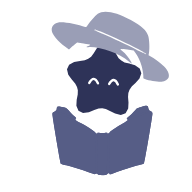
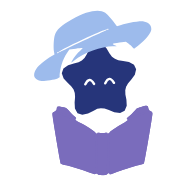
Test version: assistant colours light-blue hat, purple book, dark-blue head
Claude-Session: https://claude.ai/code/session_01SnNWWGU4BvZ2AAGobJocPY

diff --git a/beta/index.html b/beta/index.html
@@ -3715,9 +3715,10 @@ function aiHebrewDate(d){const h=hd(d);return `${h.d} ${h.n[0]} ${h.y}`}
    adm:1 = admin-only → counts as small in the version but is never announced.
    The shown version (bottom of ⋯, popups) is worked out from these sizes by ccVerStr(). A batch shows the biggest kind it contains.
    Whole new feature -> may also set `tour:'<id>'` (an id in SETS inside ccTourStart) so "Show me" runs a live tour. */
-const CC_VER=219;
+const CC_VER=220;
 const CC_LOG=[
-  {v:180,new:['The stats rings now use the new wavy style too.']},{v:181,new:['Clearer stats screen: rings and buttons easy to see in the evening, round day dots.']},{v:182,new:['Easier to read around sunset, clearer selected buttons, neater month boxes.']},{v:183,new:['Matching shapes: reminder cards, ticked shiurim and the streak days.']},{v:184,new:['Material 3 shapes for the calendar markers, the streak days and the stats.']},{v:185,new:['Each shiur has its own shape in the stats.']},{v:186,mid:1,new:['Month view: tap a day to see what’s on it right under the week; tap it again to open the day.']},{v:187,new:['Smoother and lighter on the battery: faster day changes, quieter when idle.']},{v:188,mid:1,new:['New motion everywhere: springy, physical animations — windows grow from where you tap and their content flows in.']},{v:189,mid:1,new:['Real Material 3 motion: windows grow out of the button you tap and shrink back into it, swipes between days and months follow your finger and keep its speed, selected buttons slide to their new place.']},{v:190,new:['Faster, smoother animations.']},{v:191,new:['No more blue flash when you tap something.']},{v:192,mid:1,new:['Shapes change into other shapes: ticking a box turns its square into a scalloped cookie, the selected day becomes a new shape, switches and buttons morph when you press them.']},{v:193,new:['Fixed: tapping a shiur box ticks it again.']},{v:194,mid:1,new:['The siddur has a little compass arrow at the top that points toward Yerushalayim. Tap it to see the direction.']},{v:195,new:['The siddur arrow is now a soft triangle that points the way to daven (map direction or shortest path — tap it to choose).']},{v:196,new:['The siddur direction arrow has its new shape.']},{v:197,new:['The drop arrow and its flying bubbles are gone; the cards now simply slide up as you scroll.']},{v:198,new:['Windows open and close a little slower, so the motion is easier to enjoy.']},{v:199,new:['The month view no longer looks stretched: shorter day boxes, and windows keep their shape while they open.']},{v:200,mid:1,new:['In the siddur, swipe sideways to move between Shacharis, Mincha, Maariv, Bentching and Shema; swipe in from the left edge to close it.']},{v:201,new:['Month view: the shapes behind today and the selected day are no longer stretched sideways.']},{v:202,big:1,new:['Material 3 everywhere, fixed and finished: every window grows from its button and shrinks back into it (also the full-screen ones), text stays crisp while windows move, sliding highlights in the siddur tabs, the week strip follows your finger, predictive back, moving wavy rings, a new loader, pressed buttons make room for each other, and Material 3’s Roboto Flex font.']},{v:203,new:['Cleaner look: one font for all English, solid sheets, crisper scrolling, clearer selected day, tidier settings and shiurim, calmer dusk.']},{v:204,new:['Fixes from a full check: stats now count today properly, the phone’s Back button closes the How & when guide, clearer choices at night, and small tidy-ups in the siddur and assistant.']},{v:205,new:['The stats page is much lighter and smoother (it could freeze or close the app).']},{v:206,new:['Today’s streak shape now spins into a new shape and fills up a quarter for every shiur you check off.']},{v:207,new:['Today’s streak shape now really spins (a full turn) as it changes shape.']},{v:208,new:['The assistant button is now a silhouette in the app’s colour, with a shape-shifting head that spins as you scroll.']},{v:209,new:['The assistant button has small eyes again, sized for his new head.']},{v:210,new:['The assistant has the new look everywhere he appears — every window and the notifications.']},{v:211,new:['His head stays still while he’s asleep.']},{v:219,new:['The assistant now has three shades: a light hat, his book in the app colour, and the darkest head.']},
+  {v:180,new:['The stats rings now use the new wavy style too.']},{v:181,new:['Clearer stats screen: rings and buttons easy to see in the evening, round day dots.']},{v:182,new:['Easier to read around sunset, clearer selected buttons, neater month boxes.']},{v:183,new:['Matching shapes: reminder cards, ticked shiurim and the streak days.']},{v:184,new:['Material 3 shapes for the calendar markers, the streak days and the stats.']},{v:185,new:['Each shiur has its own shape in the stats.']},{v:186,mid:1,new:['Month view: tap a day to see what’s on it right under the week; tap it again to open the day.']},{v:187,new:['Smoother and lighter on the battery: faster day changes, quieter when idle.']},{v:188,mid:1,new:['New motion everywhere: springy, physical animations — windows grow from where you tap and their content flows in.']},{v:189,mid:1,new:['Real Material 3 motion: windows grow out of the button you tap and shrink back into it, swipes between days and months follow your finger and keep its speed, selected buttons slide to their new place.']},{v:190,new:['Faster, smoother animations.']},{v:191,new:['No more blue flash when you tap something.']},{v:192,mid:1,new:['Shapes change into other shapes: ticking a box turns its square into a scalloped cookie, the selected day becomes a new shape, switches and buttons morph when you press them.']},{v:193,new:['Fixed: tapping a shiur box ticks it again.']},{v:194,mid:1,new:['The siddur has a little compass arrow at the top that points toward Yerushalayim. Tap it to see the direction.']},{v:195,new:['The siddur arrow is now a soft triangle that points the way to daven (map direction or shortest path — tap it to choose).']},{v:196,new:['The siddur direction arrow has its new shape.']},{v:197,new:['The drop arrow and its flying bubbles are gone; the cards now simply slide up as you scroll.']},{v:198,new:['Windows open and close a little slower, so the motion is easier to enjoy.']},{v:199,new:['The month view no longer looks stretched: shorter day boxes, and windows keep their shape while they open.']},{v:200,mid:1,new:['In the siddur, swipe sideways to move between Shacharis, Mincha, Maariv, Bentching and Shema; swipe in from the left edge to close it.']},{v:201,new:['Month view: the shapes behind today and the selected day are no longer stretched sideways.']},{v:202,big:1,new:['Material 3 everywhere, fixed and finished: every window grows from its button and shrinks back into it (also the full-screen ones), text stays crisp while windows move, sliding highlights in the siddur tabs, the week strip follows your finger, predictive back, moving wavy rings, a new loader, pressed buttons make room for each other, and Material 3’s Roboto Flex font.']},{v:203,new:['Cleaner look: one font for all English, solid sheets, crisper scrolling, clearer selected day, tidier settings and shiurim, calmer dusk.']},{v:204,new:['Fixes from a full check: stats now count today properly, the phone’s Back button closes the How & when guide, clearer choices at night, and small tidy-ups in the siddur and assistant.']},{v:205,new:['The stats page is much lighter and smoother (it could freeze or close the app).']},{v:206,new:['Today’s streak shape now spins into a new shape and fills up a quarter for every shiur you check off.']},{v:207,new:['Today’s streak shape now really spins (a full turn) as it changes shape.']},{v:208,new:['The assistant button is now a silhouette in the app’s colour, with a shape-shifting head that spins as you scroll.']},{v:209,new:['The assistant button has small eyes again, sized for his new head.']},{v:210,new:['The assistant has the new look everywhere he appears — every window and the notifications.']},{v:211,new:['His head stays still while he’s asleep.']},{v:220,new:['The assistant\'s colours: a light-blue hat, a purple-ish book and a dark-blue head.']},
+{v:219,new:['The assistant now has three shades: a light hat, his book in the app colour, and the darkest head.']},
 {v:218,new:['The sun turns soft peach at sunrise and sunset, and the sun and moon slowly turn and change between rounded shapes as they move across the sky.']},
 {v:217,new:['The sun and moon have a new look: a soft pastel-yellow sun and a periwinkle moon with darker craters, in rounded Material 3 shapes. The moon still shows its real phase.']},
 {v:216,new:['The waves in the filling shapes and progress rings now move all the time, like real water.']},
@@ -5901,7 +5902,8 @@ body.wm-pb.sd-hide>*{visibility:visible!important}
 .cch .c-fh{display:none}
 :root:not(.tt-off-fabsil):not(.tt-off-m3) .cch:not(.csil){--ink:var(--m3p);--fill:var(--m3p);--halo:transparent}
 /* v219 (owner: "make the character's head a darker colour than the rest of his body … his sefer body darker than the hat, the head the darkest"): three tones of the theme colour — hat lightest, book the theme colour, head darkest (switch fabsil) */
-:root:not(.tt-off-fabsil):not(.tt-off-m3) .cch:not(.csil){--chT:color-mix(in srgb,var(--m3p) 60%,#fff);--chB:var(--m3p);--chH:color-mix(in srgb,var(--m3p) 38%,#161a3c)}
+:root:not(.tt-off-fabsil):not(.tt-off-m3) .cch:not(.csil){--chT:#9dbbec;--chB:#7a6cbc;--chH:#26357a}/* v220 (owner: "hat light blue, body almost purple-ish, head dark blue") */
+:root:not(.tt-off-fabsil):not(.tt-off-m3):is([data-night="1"],[data-theme="dark"]) .cch:not(.csil),:root:not(.tt-off-fabsil):not(.tt-off-m3) #shabGate .cch{--chT:#bcd2fa;--chB:#a597e2;--chH:#4256ad}
 :root:not(.tt-off-fabsil):not(.tt-off-m3) .cch:not(.csil) :is(.c-hat,.c-hatb){--ink:var(--chT);--fill:var(--chT)}
 :root:not(.tt-off-fabsil):not(.tt-off-m3) .cch:not(.csil) .c-book{--ink:var(--chB);--fill:var(--chB)}
 :root:not(.tt-off-fabsil):not(.tt-off-m3):is([data-night="1"],[data-theme="dark"]) .cch:not(.csil),:root:not(.tt-off-fabsil):not(.tt-off-m3) #shabGate .cch{--m3op:#eef0ff}/* the darker head needs light eyes at night */

diff --git a/CLAUDE.md b/CLAUDE.md
@@ -66,6 +66,7 @@ Do not add files named `index (1).html` or similar: only `index.html` is served.
 - **v217 (owner: "the moon and the sun should also be Material 3 Expressive … themed … moon in the app's purples/blues with a few darker craters … sun a dull pastel yellow … circular-style shapes, not necessarily circles"):** `<style id="cc-m3sky">` + a script just before `</body>`, Test tools switch `m3sky` (also off with `m3`). Sun: `.sun-b::after` clipped to `--m3sunP` (a 9-lobed soft "sunny" polygon r = 1 − a + a(½+½cos 9θ), a .085, 120 points, set on `:root` by the script), pastel #f2e6b8 → #e8d69e with 16–22% of the altitude colour `--sunc` (so it warms a little at sunrise/sunset), soft pastel halo on `::before`, turning once per 90 s (`m3sunR`, compositor `rotate`; paused under `cc-still`/`cc-away`/`cc-cover`). Moon: `artMoonUrl`/`artMoonUrlSoon` are wrapped (global reassignment) to return an SVG data URI from `M3Moon(f)`: a 9-lobed soft cookie (a .06), the unlit side `#4a5089` (night/dusk) or faint `rgba(96,104,178,.3)` (light theme: day moon), the lit side periwinkle `#c7cbf1` / `#a3abe6` from the real phase (half-disc + elliptical terminator, mirrored when waning), 7 craters darker (`#9aa1dc` / `#7c84cb`, dimmer on the dark side); the old photo filters and the white veil are off (`filter:none`, below horizon `brightness(.82)`). A class/data-theme observer re-sets every `img.mimg` when the theme or the switch changes. Test: scratchpad `stp/sky.js` (env `L` = JSON list of [time, name]).
 - **v218 (owner: "make the sun's colour change for sunrise and sunset … shapes in more variety … lightly spin as they move along the sky and morph into different shapes"):** in the v217 block. Sun colour: the script reads `--sunc` every 20 s (its green channel 224 at midday → 134 at the horizon) and sets `--sunw` = ((224−g)/90)^1.4 on `:root`; the disc is `color-mix` from pastel yellow (#f2e6b8/#e8d69e) to pastel peach-coral (#f8cfb0/#eda988) by `--sunw`, the halo the same. Shapes: generated keyframes in `<style id="cc-m3skykf">` — `m3sunM` (60 s) and `m3moonM` (90 s), 41 stops of `clip-path: polygon(72 points)` cycling five soft rounded shapes each (sun [n,a,p]: 9/.085, 7/.1, 12/.06, 6/.12^1.6, 8/.09; moon gentler: 9/.06, 7/.07, 11/.045, 5/.08^1.4, 8/.055), each held ~55% of its slot then smoothstep-morphed into the next (same sample angles → a clean radial morph), while the shape turns one full turn per loop (the turn is inside the polygons, so the moon's phase and craters stay upright — the moon SVG is now a full square and the CSS clip on `img.mimg` gives its shape). Paused under `cc-still`/`cc-away`/`cc-cover`, static under reduced motion. Cost: ~10% more idle style work while visible (8 s, 4× throttle). Test: scratchpad `stp/morphsky.js` (env `L`, `FR` frames, `GAP` ms).
 - **v219 (owner: "make the character's head a darker colour than the rest of his body … his sefer body darker than the hat, the head the darkest"):** in the v208 block (switch `fabsil`): `--chT` hat = `--m3p` 60% + white, `--chB` book = `--m3p`, `--chH` head = `--m3p` 38% + #161a3c; set by overriding `--ink`/`--fill` on `.c-hat/.c-hatb` and `.c-book` (their parts read those vars), and `.c-fh{fill:var(--chH)}` (the older `.c-fh{display:inline;fill:var(--m3p)}` rules were changed too — they came later in the file and won). At night/dusk (`data-night`/`data-theme=dark`) and on the Shabbos screen the eyes are light (`--m3op:#eef0ff`) so they show on the darker head. Notification pictures (`assets/char/c1..9.png`, `native/assets/char/cc_char1..9.png`) re-rendered with the three tones (scratchpad `stp/notif.js`, run from `stp/nt/`). Test: scratchpad `stp/tone.js` (+ button and assistant sheet, day and night, 4×).
+- **v220 (owner: "hat light blue, body almost purple-ish, head dark blue"):** the v219 tones are now fixed hues: day `--chT` #9dbbec / `--chB` #7a6cbc / `--chH` #26357a; night, dusk and the Shabbos screen #bcd2fa / #a597e2 / #4256ad (light eyes as before). Notification pictures re-rendered (scratchpad `stp/notif.js` from `stp/nt/`).
 - **v191 (owner: "when I click on something it turns blue, and only then it opens"):** top of `cc-m3x`: `-webkit-tap-highlight-color:transparent` on every element (it was only set on ~10), `user-select:none` + `-webkit-touch-callout:none` on tappable things (buttons, links, chips, cards, day cells, dock…; text in the reader/inputs stays selectable), and no focus outline after a tap (`:focus:not(:focus-visible)`; keyboard focus still shows).
 - **Per-profile storage:** `AK(key)`, `ST(key,default)`. Local profiles and a login gate exist (`cc_local_profiles_v1`).
 - **Accounts saved online (owner, v89; v91: Create account asks for the password twice, `#accountPass2`, shown only in create mode: "if someone logs in on a different phone or uninstalls and reinstalls, it still has all his stuff").** Push server `/acct/new|login|sync` (origin-locked; KV `acct:<user>` = `{s salt, h PBKDF2-SHA256 10k, tk: last 12 session tokens, d:{key:[value,time]}, r revision, f/ft failed sign-ins → 8 fails = 10 min lock}`; user `test` refused). The sign-in script (`window.ccAcct`) sends the typed password only to the server (the phone still keeps its old FNV `passwordHash` for offline sign-in) and keeps a token in `cc_sync_<user>` = `{t, r, h:{key: FNV hash last synced}, at}`. Synced = every `cc_profile_<user>_*` key except `cc_sd_pos`/`cc_test_*`, plus `@seen` (`cc_seen_ver_<u>`) and `@tour` (`cc_local_tour_done_<u>`). `sync(u)`: changed keys go up as `[value, time, base hash]`; the server applies a change only if its copy still matches the base, otherwise the phone merges (`merge`: JSON objects unioned one level deep, server wins a clash — so shiurim ticked on two phones are kept) and sends again. Create account = registers on the server (409 → "taken"; no internet → phone-only account, backed up later). Log in with a name unknown on this phone → `/acct/login` → the server copy is written to the phone (`applyAll`). Existing signed-in users with no token get a one-time-per-opening card `#bkCard` ("Keep your account safe": type the password; if the name is someone else's on the server, pick a new one → `ccAcct.rename` moves the phone's data). Runner (block after `acctOut` in the main script): sync 1.5 s after opening, on leaving the app, on return (after 60 s), every 2 min while open; reads are cheap, a write only when something changed (KV free plan: 1000 writes/day). New data from another phone → quiet reload (while hidden, or within 20 s of opening if untouched; else on leaving). ⋯ account card line `#acctBk` ("☁ Saved to your account · 3 min ago" / "Not saved… Tap to fix"). Test: scratchpad `acct/e2e.js` (routes the app's requests into `server/worker.js` with a fake KV: create, second phone, both phones changing, old user card, name taken → rename), `acct/wt.mjs`. **Needs the worker deployed** (owner pastes it into Cloudflare).
